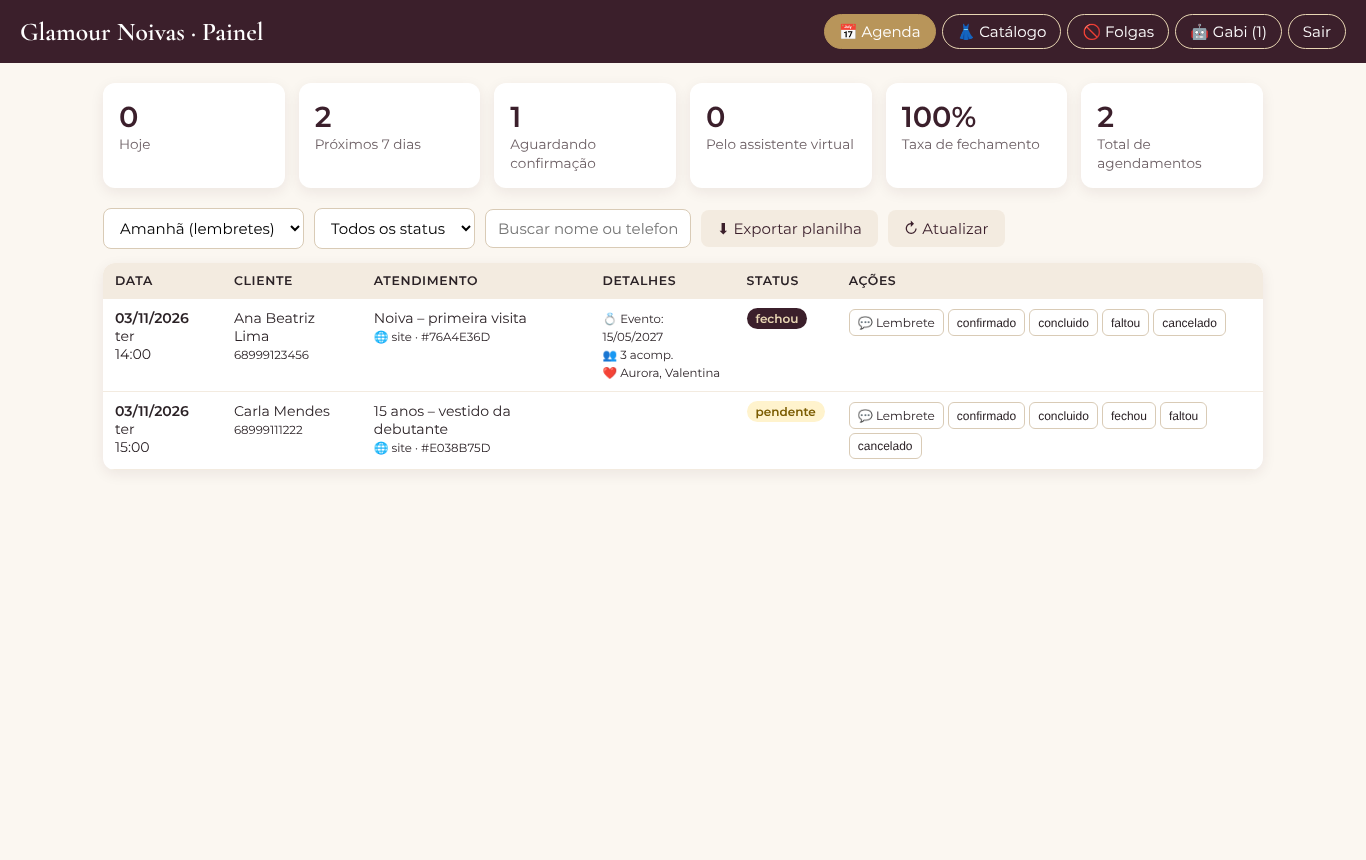
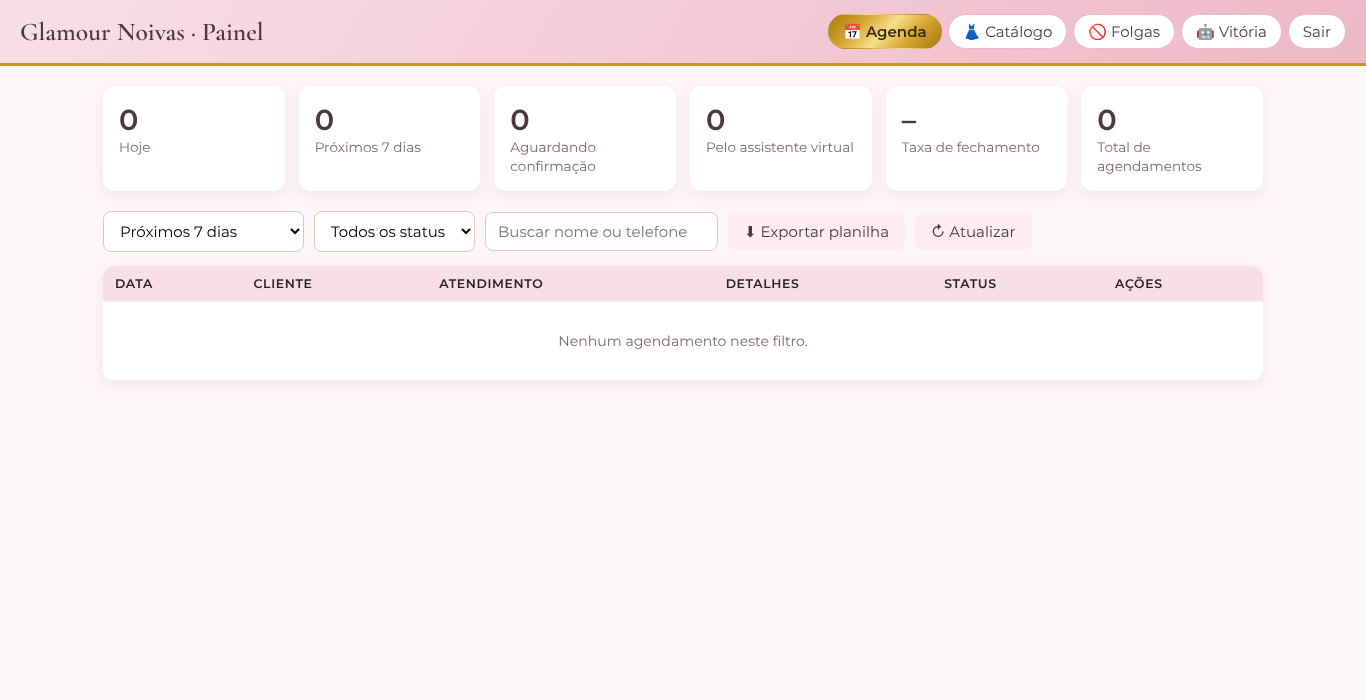
Nova identidade visual: rosê bebê, dourado metálico e branco
Claude-Session: https://claude.ai/code/session_01QKfKEePFHhd3Y5UyopjLB6

Changed region(s): [[0.0, 0.0, 1.0, 0.54]]

diff --git a/public/css/style.css b/public/css/style.css
@@ -185,3 +185,98 @@ input:focus,select:focus,textarea:focus{outline:2px solid var(--ouro);outline-of
 .lightbox button{position:absolute;background:rgba(255,255,255,.12);color:#fff;border:0;font-size:2rem;width:48px;height:48px;border-radius:50%;cursor:pointer}
 .lb-fechar{top:16px;right:16px}.lb-ant{left:12px;top:50%}.lb-prox{right:12px;top:50%}
 @media (max-width:860px){.hero{flex-direction:column;align-items:stretch}.hero-foto{flex:none;max-width:420px;width:100%;margin:0 auto}}
+
+/* =========================================================
+   TEMA ROSÊ BEBÊ · DOURADO · BRANCO
+   ========================================================= */
+:root{
+  --branco:#fff; --marfim:#fff; --creme:#fcedf1;
+  --rose:#f8dfe6; --rose-claro:#fdf3f6; --rose-forte:#eeb8c7; --rose-texto:#b0566f;
+  --ouro:#c9971c; --ouro-claro:#f4e2a8; --ouro-texto:#8c640a;
+  --ouro-grad:linear-gradient(135deg,#a8770f 0%,#d4a632 28%,#f7df8a 50%,#d4a632 72%,#a8770f 100%);
+  --vinho:#4a3a3e; --vinho-2:#8c640a; --texto:#3f3236; --suave:#7a6a6f;
+  --sombra:0 12px 34px rgba(176,86,111,.12);
+}
+body{background:#fff}
+h2 em,h1 em,.marca em{color:var(--ouro-texto);background:var(--ouro-grad);-webkit-background-clip:text;background-clip:text;-webkit-text-fill-color:transparent}
+.topo{background:rgba(255,255,255,.94);border-bottom:1px solid var(--rose)}
+.topo::after{content:"";position:absolute;left:0;right:0;bottom:-1px;height:2px;background:var(--ouro-grad);opacity:.8}
+
+/* botões dourados */
+.btn-ouro{background:var(--ouro-grad);background-size:200% 100%;color:#3a2905!important;box-shadow:0 6px 18px rgba(201,151,28,.35);border:0}
+.btn-ouro:hover{background:var(--ouro-grad);background-position:100% 0;filter:brightness(1.05);box-shadow:0 8px 24px rgba(201,151,28,.5)}
+.btn-linha{border-color:var(--ouro);color:var(--ouro-texto)}
+.btn-linha:hover{background:var(--rose-claro)}
+
+/* abertura */
+.hero{color:var(--texto);background:radial-gradient(ellipse at 80% 20%,#fff 0%,transparent 55%),linear-gradient(120deg,#fff 0%,var(--rose-claro) 40%,var(--rose) 100%)}
+.hero .lead{opacity:1;color:var(--suave)}
+.sobre{color:var(--rose-texto)}
+.selos{opacity:1;color:var(--suave)}
+.selos strong{color:var(--ouro-texto)}
+.hero-foto img{border:3px solid transparent;background:var(--ouro-grad) border-box;box-shadow:0 30px 60px rgba(176,86,111,.25)}
+
+/* seções */
+.secao-clara{background:var(--rose-claro)}
+.secao-escura{background:linear-gradient(160deg,var(--rose) 0%,var(--rose-claro) 100%);color:var(--texto)}
+.secao-escura .sub{color:var(--suave)}
+.servico{border-top:3px solid transparent;border-image:var(--ouro-grad) 1;box-shadow:var(--sombra)}
+
+/* catálogo */
+.filtros button{border-color:var(--rose-forte);color:var(--texto)}
+.filtros button[aria-selected=true]{background:var(--ouro-grad);border-color:transparent;color:#3a2905;font-weight:600}
+.peca .foto{background:linear-gradient(160deg,#fff,var(--rose))}
+.peca .foto svg{fill:var(--rose-forte)}
+.peca .meta{color:var(--rose-texto)}
+.peca .selo{background:var(--ouro-grad);color:#3a2905;font-weight:600}
+.peca .provar{color:var(--ouro-texto)}
+.galeria button{background:var(--rose)}
+
+/* agendamento (antes escuro, agora rosê com cartão branco) */
+.form-agendar{background:#fff;border:1px solid var(--rose-forte);box-shadow:var(--sombra)}
+label{color:var(--texto)}
+input,select,textarea{border:1px solid var(--rose-forte);background:#fff}
+.opcoes-tipo label{color:var(--texto);border-color:var(--rose-forte);background:var(--rose-claro)}
+.opcoes-tipo small{color:var(--suave)}
+.opcoes-tipo label:has(input:checked){background:#fff6dc;border-color:var(--ouro);box-shadow:0 0 0 1px var(--ouro)}
+.horarios button{border-color:var(--rose-forte);color:var(--texto);background:#fff}
+.horarios button.ativo{background:var(--ouro-grad);border-color:transparent;color:#3a2905;font-weight:600}
+.dica{color:var(--suave)}
+.erro{color:#b3261e}
+.sucesso{border:1px solid var(--rose-forte);box-shadow:var(--sombra)}
+.sucesso h3{color:var(--ouro-texto)}
+.sucesso .cod{background:var(--rose)}
+
+/* depoimentos, faq, jornada */
+.depoimentos blockquote{border-left:3px solid var(--ouro)}
+.depoimentos cite{color:var(--rose-texto)}
+.faq details{border-bottom-color:var(--rose)}
+.jornada span{border:2px solid transparent;background:linear-gradient(#fff,#fff) padding-box,var(--ouro-grad) border-box;color:var(--ouro-texto)}
+.checks li::before{color:var(--ouro)}
+.cerimonial{background:linear-gradient(120deg,var(--rose-claro),#fff)}
+
+/* rodapé */
+.rodape{background:var(--rose);color:var(--texto);border-top:3px solid transparent;border-image:var(--ouro-grad) 1}
+.rodape .marca{color:var(--texto)}
+.rodape .pequeno{border-top-color:var(--rose-forte);opacity:.8}
+.rodape a{color:var(--texto)}
+
+/* assistente */
+.chat-abrir{background:#fff;color:var(--texto);border:2px solid transparent;background:linear-gradient(#fff,#fff) padding-box,var(--ouro-grad) border-box;box-shadow:0 10px 26px rgba(176,86,111,.3)}
+.chat-abrir .bolha{background:var(--ouro-grad)}
+.chat{background:var(--rose-claro)}
+.chat header{background:linear-gradient(120deg,var(--rose) 0%,var(--rose-forte) 100%);color:var(--texto);border-bottom:2px solid var(--ouro)}
+.chat header small{color:var(--rose-texto)}
+.chat header button{color:var(--texto)}
+.msg.eu{background:var(--ouro-grad);color:#3a2905}
+.msg a{color:var(--ouro-texto)}
+.chat-sugestoes button{border-color:var(--rose-forte);color:var(--texto)}
+.chat-sugestoes button:hover{border-color:var(--ouro);background:#fff6dc}
+.chat-form{border-top-color:var(--rose)}
+.chat-form button{color:var(--ouro)}
+
+/* consulta, lightbox, menu */
+.secao-clara .btn-linha{color:var(--ouro-texto);border-color:var(--ouro)}
+.lightbox{background:rgba(60,40,46,.92)}
+.lightbox p{color:var(--ouro-claro)}
+@media (max-width:860px){.menu{background:#fff;border-bottom:2px solid var(--rose)}}

diff --git a/public/admin.html b/public/admin.html
@@ -3,28 +3,28 @@
 <head>
 <meta charset="utf-8"><meta name="viewport" content="width=device-width, initial-scale=1">
 <meta name="robots" content="noindex">
-<link rel="manifest" href="manifest.webmanifest"><meta name="theme-color" content="#3b1f2b"><meta name="apple-mobile-web-app-capable" content="yes">
+<link rel="manifest" href="manifest.webmanifest"><meta name="theme-color" content="#f8dfe6"><meta name="apple-mobile-web-app-capable" content="yes">
 <title>Painel · Glamour Noivas</title>
 <link rel="icon" href="img/favicon.svg">
 <link href="https://fonts.googleapis.com/css2?family=Cormorant+Garamond:wght@600&family=Montserrat:wght@400;500;600&display=swap" rel="stylesheet">
 <style>
-:root{--vinho:#3b1f2b;--ouro:#b8955a;--creme:#f3ebe0;--marfim:#fbf7f1;--suave:#6e6166}
-*{box-sizing:border-box}body{margin:0;font-family:Montserrat,system-ui,sans-serif;background:var(--marfim);color:#2b2226;font-size:15px}
-header{background:var(--vinho);color:#fff;padding:14px 20px;display:flex;justify-content:space-between;align-items:center;flex-wrap:wrap;gap:10px}
+:root{--vinho:#4a3a3e;--ouro:#c9971c;--creme:#fcedf1;--marfim:#fff;--suave:#7a6a6f;--rose:#f8dfe6;--rose-forte:#eeb8c7;--ouro-texto:#8c640a;--ouro-grad:linear-gradient(135deg,#a8770f 0%,#d4a632 28%,#f7df8a 50%,#d4a632 72%,#a8770f 100%)}
+*{box-sizing:border-box}body{margin:0;font-family:Montserrat,system-ui,sans-serif;background:#fdf6f8;color:#2b2226;font-size:15px}
+header{background:linear-gradient(120deg,var(--rose),var(--rose-forte));color:var(--vinho);border-bottom:3px solid var(--ouro);padding:14px 20px;display:flex;justify-content:space-between;align-items:center;flex-wrap:wrap;gap:10px}
 header h1{font-family:'Cormorant Garamond',serif;margin:0;font-size:1.6rem}
-nav{display:flex;gap:6px;flex-wrap:wrap}nav button{background:none;border:1px solid #e8d6b3;color:#fff;border-radius:999px;padding:7px 14px;cursor:pointer;font:inherit}
-nav button.ativo{background:var(--ouro);border-color:var(--ouro)}
+nav{display:flex;gap:6px;flex-wrap:wrap}nav button{background:#fff;border:1px solid var(--rose-forte);color:var(--vinho);border-radius:999px;padding:7px 14px;cursor:pointer;font:inherit}
+nav button.ativo{background:var(--ouro-grad);border-color:transparent;color:#3a2905;font-weight:600}
 main{padding:20px;max-width:1200px;margin:0 auto}
 .cards{display:grid;grid-template-columns:repeat(auto-fit,minmax(170px,1fr));gap:14px;margin-bottom:20px}
-.card{background:#fff;border-radius:12px;padding:16px;box-shadow:0 4px 14px rgba(59,31,43,.08)}.card b{display:block;font-size:1.8rem;color:var(--vinho)}.card span{color:var(--suave);font-size:.85rem}
+.card{background:#fff;border-radius:12px;padding:16px;box-shadow:0 4px 14px rgba(176,86,111,.1)}.card b{display:block;font-size:1.8rem;color:var(--vinho)}.card span{color:var(--suave);font-size:.85rem}
 .barra{display:flex;gap:10px;flex-wrap:wrap;margin-bottom:14px;align-items:center}
 input,select,textarea{padding:9px 12px;border:1px solid #d9cbb6;border-radius:8px;font:inherit;background:#fff}
-.btn{background:var(--vinho);color:#fff;border:0;border-radius:8px;padding:9px 16px;cursor:pointer;font:inherit;text-decoration:none;display:inline-block}
-.btn.ouro{background:var(--ouro)}.btn.leve{background:var(--creme);color:var(--vinho)}
-table{width:100%;border-collapse:collapse;background:#fff;border-radius:12px;overflow:hidden;box-shadow:0 4px 14px rgba(59,31,43,.08)}
-th,td{padding:10px 12px;text-align:left;border-bottom:1px solid var(--creme);vertical-align:top;font-size:.88rem}th{background:var(--creme);font-size:.78rem;text-transform:uppercase;letter-spacing:.05em}
+.btn{background:var(--ouro-grad);color:#3a2905;font-weight:600;border:0;border-radius:8px;padding:9px 16px;cursor:pointer;font:inherit;text-decoration:none;display:inline-block}
+.btn.ouro{background:var(--ouro-grad)}.btn.leve{background:var(--creme);color:var(--vinho)}
+table{width:100%;border-collapse:collapse;background:#fff;border-radius:12px;overflow:hidden;box-shadow:0 4px 14px rgba(176,86,111,.1)}
+th,td{padding:10px 12px;text-align:left;border-bottom:1px solid var(--creme);vertical-align:top;font-size:.88rem}th{background:var(--rose);font-size:.78rem;text-transform:uppercase;letter-spacing:.05em}
 .st{padding:3px 9px;border-radius:999px;font-size:.75rem;font-weight:600}
-.st.pendente{background:#fff3cd;color:#7a5b00}.st.confirmado{background:#d8f0dd;color:#1e6b33}.st.concluido{background:#dde7f7;color:#244a85}.st.fechou{background:#3b1f2b;color:#e8d6b3}.st.cancelado,.st.faltou{background:#f7dede;color:#8a2323}
+.st.pendente{background:#fff3cd;color:#7a5b00}.st.confirmado{background:#d8f0dd;color:#1e6b33}.st.concluido{background:#dde7f7;color:#244a85}.st.fechou{background:var(--ouro-grad);color:#3a2905}.st.cancelado,.st.faltou{background:#f7dede;color:#8a2323}
 .acoes{display:flex;gap:4px;flex-wrap:wrap}.acoes button,.acoes a{font-size:.75rem;padding:5px 8px;border-radius:6px;border:1px solid #d9cbb6;background:#fff;cursor:pointer;text-decoration:none;color:inherit}
 .login{max-width:340px;margin:12vh auto;background:#fff;padding:30px;border-radius:14px;box-shadow:0 10px 30px rgba(59,31,43,.12);text-align:center}
 .login input{width:100%;margin:14px 0}

diff --git a/public/js/app.js b/public/js/app.js
@@ -5,9 +5,9 @@ const App = { config: null, catalogo: [], favoritos: new Set(JSON.parse(localSto
 window.GN = App;
 
 const SILHUETAS = {
-  vestido: '<svg viewBox="0 0 100 140" fill="#5a2f41"><path d="M40 8c0-4 20-4 20 0l-2 14c6 4 8 10 6 18l-4 10c14 22 26 52 34 86H6c8-34 20-64 34-86l-4-10c-2-8 0-14 6-18z"/></svg>',
-  paleto: '<svg viewBox="0 0 100 140" fill="#5a2f41"><path d="M30 10l20 14 20-14 22 10 4 110H4L8 20zM50 24l-8 40 8 10 8-10z" /><path d="M46 26h8l-4 10z" fill="#e8d6b3"/></svg>',
-  acessorio: '<svg viewBox="0 0 100 100" fill="#5a2f41"><path d="M10 70l8-40 16 22 16-34 16 34 16-22 8 40z"/><rect x="10" y="74" width="80" height="10" rx="3"/></svg>'
+  vestido: '<svg viewBox="0 0 100 140" fill="#e7a9ba"><path d="M40 8c0-4 20-4 20 0l-2 14c6 4 8 10 6 18l-4 10c14 22 26 52 34 86H6c8-34 20-64 34-86l-4-10c-2-8 0-14 6-18z"/></svg>',
+  paleto: '<svg viewBox="0 0 100 140" fill="#e7a9ba"><path d="M30 10l20 14 20-14 22 10 4 110H4L8 20zM50 24l-8 40 8 10 8-10z" /><path d="M46 26h8l-4 10z" fill="#e8d6b3"/></svg>',
+  acessorio: '<svg viewBox="0 0 100 100" fill="#e7a9ba"><path d="M10 70l8-40 16 22 16-34 16 34 16-22 8 40z"/><rect x="10" y="74" width="80" height="10" rx="3"/></svg>'
 };
 const silhueta = cat => cat === 'Paletós' ? SILHUETAS.paleto : cat === 'Acessórios' ? SILHUETAS.acessorio : SILHUETAS.vestido;
 
@@ -205,7 +205,7 @@ function mostrarSucesso(ag) {
     <p>Código: <span class="cod">${ag.id}</span></p>
     <p>Para garantir, envie a confirmação no nosso WhatsApp:</p>
     <a class="btn btn-ouro" target="_blank" rel="noopener" href="${whatsLink(App.textoConfirmacao(ag))}">Confirmar pelo WhatsApp</a>
-    <p><button class="btn-texto" style="color:var(--vinho)" onclick="GN.baixarIcs(${esc(JSON.stringify(ag)).replace(/"/g, '&quot;')})">📅 Salvar na agenda do celular</button></p>
+    <p><button class="btn-texto" style="color:var(--ouro-texto)" onclick="GN.baixarIcs(${esc(JSON.stringify(ag)).replace(/"/g, '&quot;')})">📅 Salvar na agenda do celular</button></p>
     <p class="pequeno" style="margin-top:18px">Dica: traga uma lingerie cor da pele e o sapato com a altura que pretende usar.</p>`;
   s.scrollIntoView({ block: 'center' });
 }

diff --git a/public/index.html b/public/index.html
@@ -8,7 +8,7 @@
 <meta property="og:title" content="Glamour Noivas – Rio Branco, AC">
 <meta property="og:image" content="img/vestidos/perola-1.webp">
 <meta property="og:description" content="Vestidos de noiva, 15 anos, paletós e cerimonial. Agende sua prova online.">
-<meta name="theme-color" content="#3b1f2b">
+<meta name="theme-color" content="#f8dfe6">
 <link rel="icon" href="img/favicon.svg" type="image/svg+xml">
 <link rel="preconnect" href="https://fonts.googleapis.com">
 <link rel="preconnect" href="https://fonts.gstatic.com" crossorigin>
